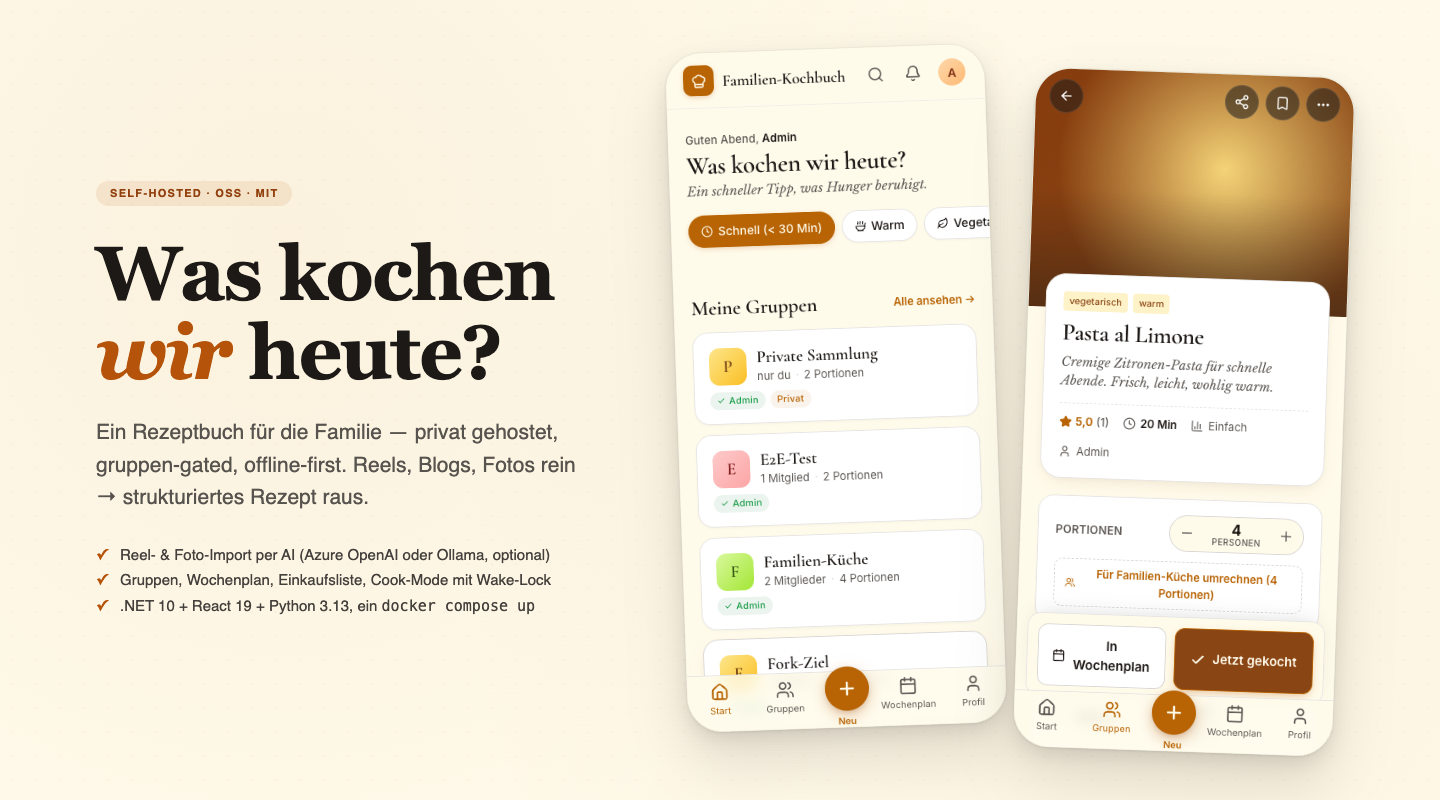
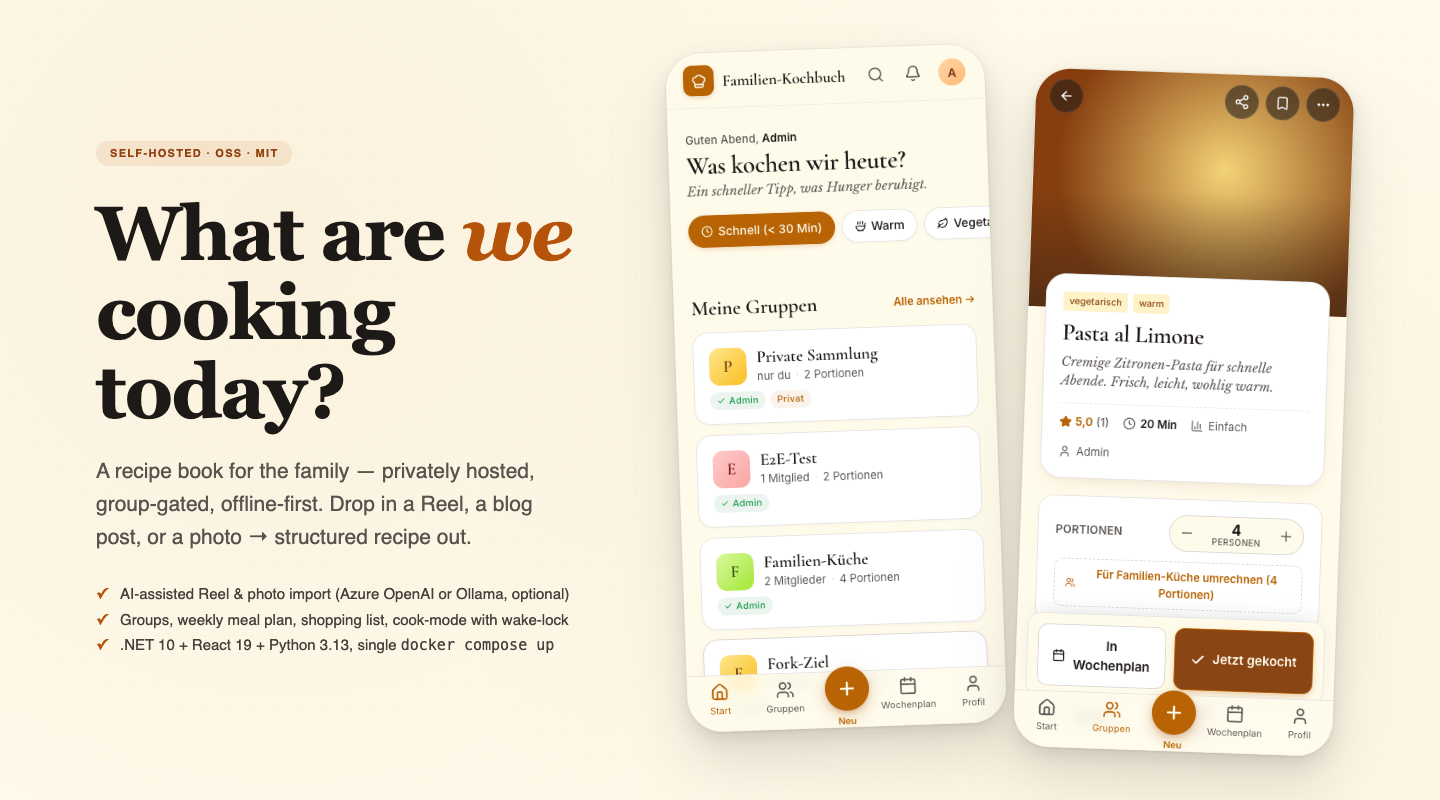
docs: switch hero copy to English (matches README language)
Headline + lede + bullets jetzt in Englisch — README ist seit
REL-1 komplett auf Englisch, der deutsche Hero von 85ee3e9 war
inkonsistent. "What are we cooking today?" preserved den
Familien-/casual-Tone des Originals.

Phone screenshots bleiben deutsch — das IST die Production-UI per
REL-3 maintainer-daily-driver decision (DE primary, EN secondary
via locale toggle in user settings). Visuelles Mismatch zwischen
englischem Marketing-Copy + deutschem Produkt-UI ist authentisch
für ein OSS-Projekt das gezielt deutsche Familien adressiert.

Changed region(s): [[0.0625, 0.1875, 0.4062, 0.8125]]

diff --git a/README.md b/README.md
@@ -5,7 +5,7 @@
 > AI-orchestrated development.
 
 <p align="center">
-  <img src="docs/screenshots/hero.png" alt="shared-cookbook — Was kochen wir heute? Two mobile screenshots showing the home dashboard and a recipe-detail page in the warm amber palette." width="900" />
+  <img src="docs/screenshots/hero.png" alt="shared-cookbook — What are we cooking today? Two mobile screenshots showing the home dashboard and a recipe-detail page in the warm amber palette." width="900" />
 </p>
 
 [![CI](https://github.com/dKaulig/shared-cookbook/actions/workflows/ci.yml/badge.svg)](https://github.com/dKaulig/shared-cookbook/actions/workflows/ci.yml)